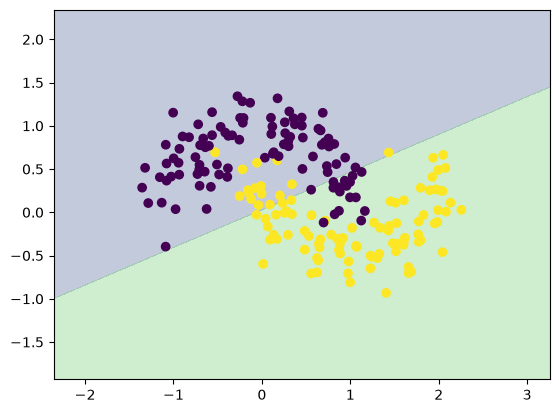
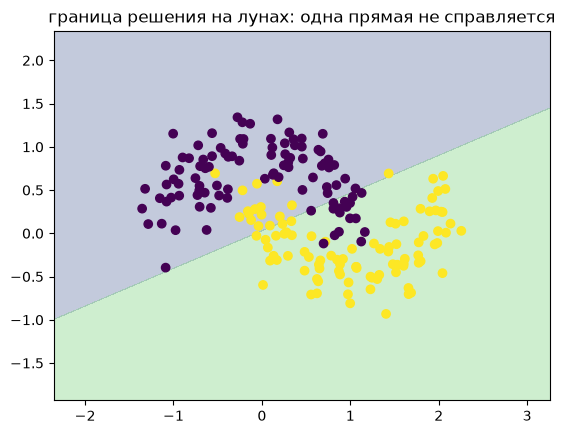
Лаба 7: заголовки над каждым графиком (данные, лосс, две границы решения)

Changed region(s): [[0.0, 0.0, 1.0, 0.9879], [0.6691, 0.6973, 0.6995, 0.7554]]

diff --git a/lab_07/neuron.py b/lab_07/neuron.py
@@ -15,7 +15,7 @@ HERE = Path(__file__).resolve().parent
 
 # Шаг 1. Два класса точек — 10 мин
 X, y = make_blobs(200, centers=2, cluster_std=1.2, random_state=1)
-plt.figure(); plt.scatter(X[:, 0], X[:, 1], c=y); plt.show()
+plt.figure(); plt.title('данные: два облака точек'); plt.scatter(X[:, 0], X[:, 1], c=y); plt.show()
 
 # Шаг 2. Нейрон — 15 мин
 sig = lambda z: 1 / (1 + np.exp(-z))
@@ -34,13 +34,14 @@ for i in range(500):
     p = forward(X); dz = p - y
     w -= lr * X.T @ dz / len(X); b -= lr * dz.mean()
     hist.append(bce(p, y))
-plt.figure(); plt.plot(hist); plt.show()
+plt.figure(); plt.title('функция потерь BCE по шагам обучения'); plt.plot(hist); plt.show()
 print('accuracy:', ((forward(X) > .5) == y).mean())
 
 # Шаг 5. Граница решения — 15 мин
 xx, yy = np.meshgrid(np.linspace(X[:,0].min()-1, X[:,0].max()+1, 200), np.linspace(X[:,1].min()-1, X[:,1].max()+1, 200))
 zz = forward(np.c_[xx.ravel(), yy.ravel()]).reshape(xx.shape)
 plt.figure()
+plt.title('граница решения на двух облаках: прямая справляется')
 plt.contourf(xx, yy, zz, levels=[0, .5, 1], alpha=.3); plt.scatter(X[:,0], X[:,1], c=y)
 plt.savefig(HERE / 'boundary_blobs.png', bbox_inches='tight'); plt.show()
 
@@ -56,6 +57,7 @@ print('accuracy на moons:', ((forward(X) > .5) == y).mean())
 xx, yy = np.meshgrid(np.linspace(X[:,0].min()-1, X[:,0].max()+1, 200), np.linspace(X[:,1].min()-1, X[:,1].max()+1, 200))
 zz = forward(np.c_[xx.ravel(), yy.ravel()]).reshape(xx.shape)
 plt.figure()
+plt.title('граница решения на лунах: одна прямая не справляется')
 plt.contourf(xx, yy, zz, levels=[0, .5, 1], alpha=.3); plt.scatter(X[:,0], X[:,1], c=y)
 plt.savefig(HERE / 'boundary_moons.png', bbox_inches='tight'); plt.show()
 
